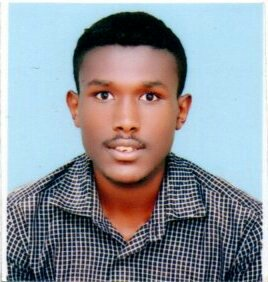
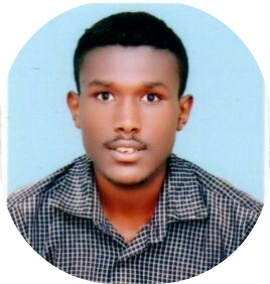
My profile image becomes round!

diff --git a/index.html b/index.html
@@ -1,8 +1,6 @@
 <!DOCTYPE html>
 <html lang="en">
-   
 <head>
-    
     <meta charset="UTF-8">
     <meta name="viewport" content="width=device-width, initial-scale=1.0">
     <meta http-equiv="X-UA-Compatible" content="ie=edge">
@@ -19,7 +17,7 @@
     <table cellspacing = "10" >
         <tr>
             <td>
-        <img src="images/teme.JPG" alt="Temesgen profile image" width = "150" length ="150">
+        <img src="images/teme.JPG" alt="Temesgen profile image" width = "200" length ="200">
             </td>
             <td>
                 <h1>Temesgen Geta </h1>
@@ -33,8 +31,6 @@
         </tr>
 
     </table>
-   
-
 <hr>
 <h3>Hobbies and Interest</h3>
 <ul>
@@ -102,7 +98,7 @@
     </tr>
     <tr>
         <td>Mobile app development</td>
-        <td>Very good</td>
+        <td>⭐⭐⭐⭐⭐</td>
     </tr>
 </table>
     

diff --git a/contact.html b/contact.html
@@ -19,7 +19,7 @@
     <table cellspacing = "10">
         <tr>
             <td>
-        <img src="images/teme.JPG" border="1" alt="Temesgen profile image" width = "150" length ="150">
+        <img src="images/teme.JPG" alt="Temesgen profile image" width = "200" length ="200">
             </td>
             <td>
                 <h1>Temesgen Geta </h1>
@@ -115,8 +115,5 @@
             </td>
     </tr>
 </table>
-    
-
-
 </body>
 </html>

diff --git a/Gallery.html b/Gallery.html
@@ -19,7 +19,7 @@
     <table cellspacing = "10">
         <tr>
             <td>
-        <img src="images/teme.JPG" border="1" alt="Temesgen profile image" width = "150" length ="150">
+        <img src="images/teme.JPG" alt="Temesgen profile image" width = "200" length ="200">
             </td>
             <td>
                 <p>
